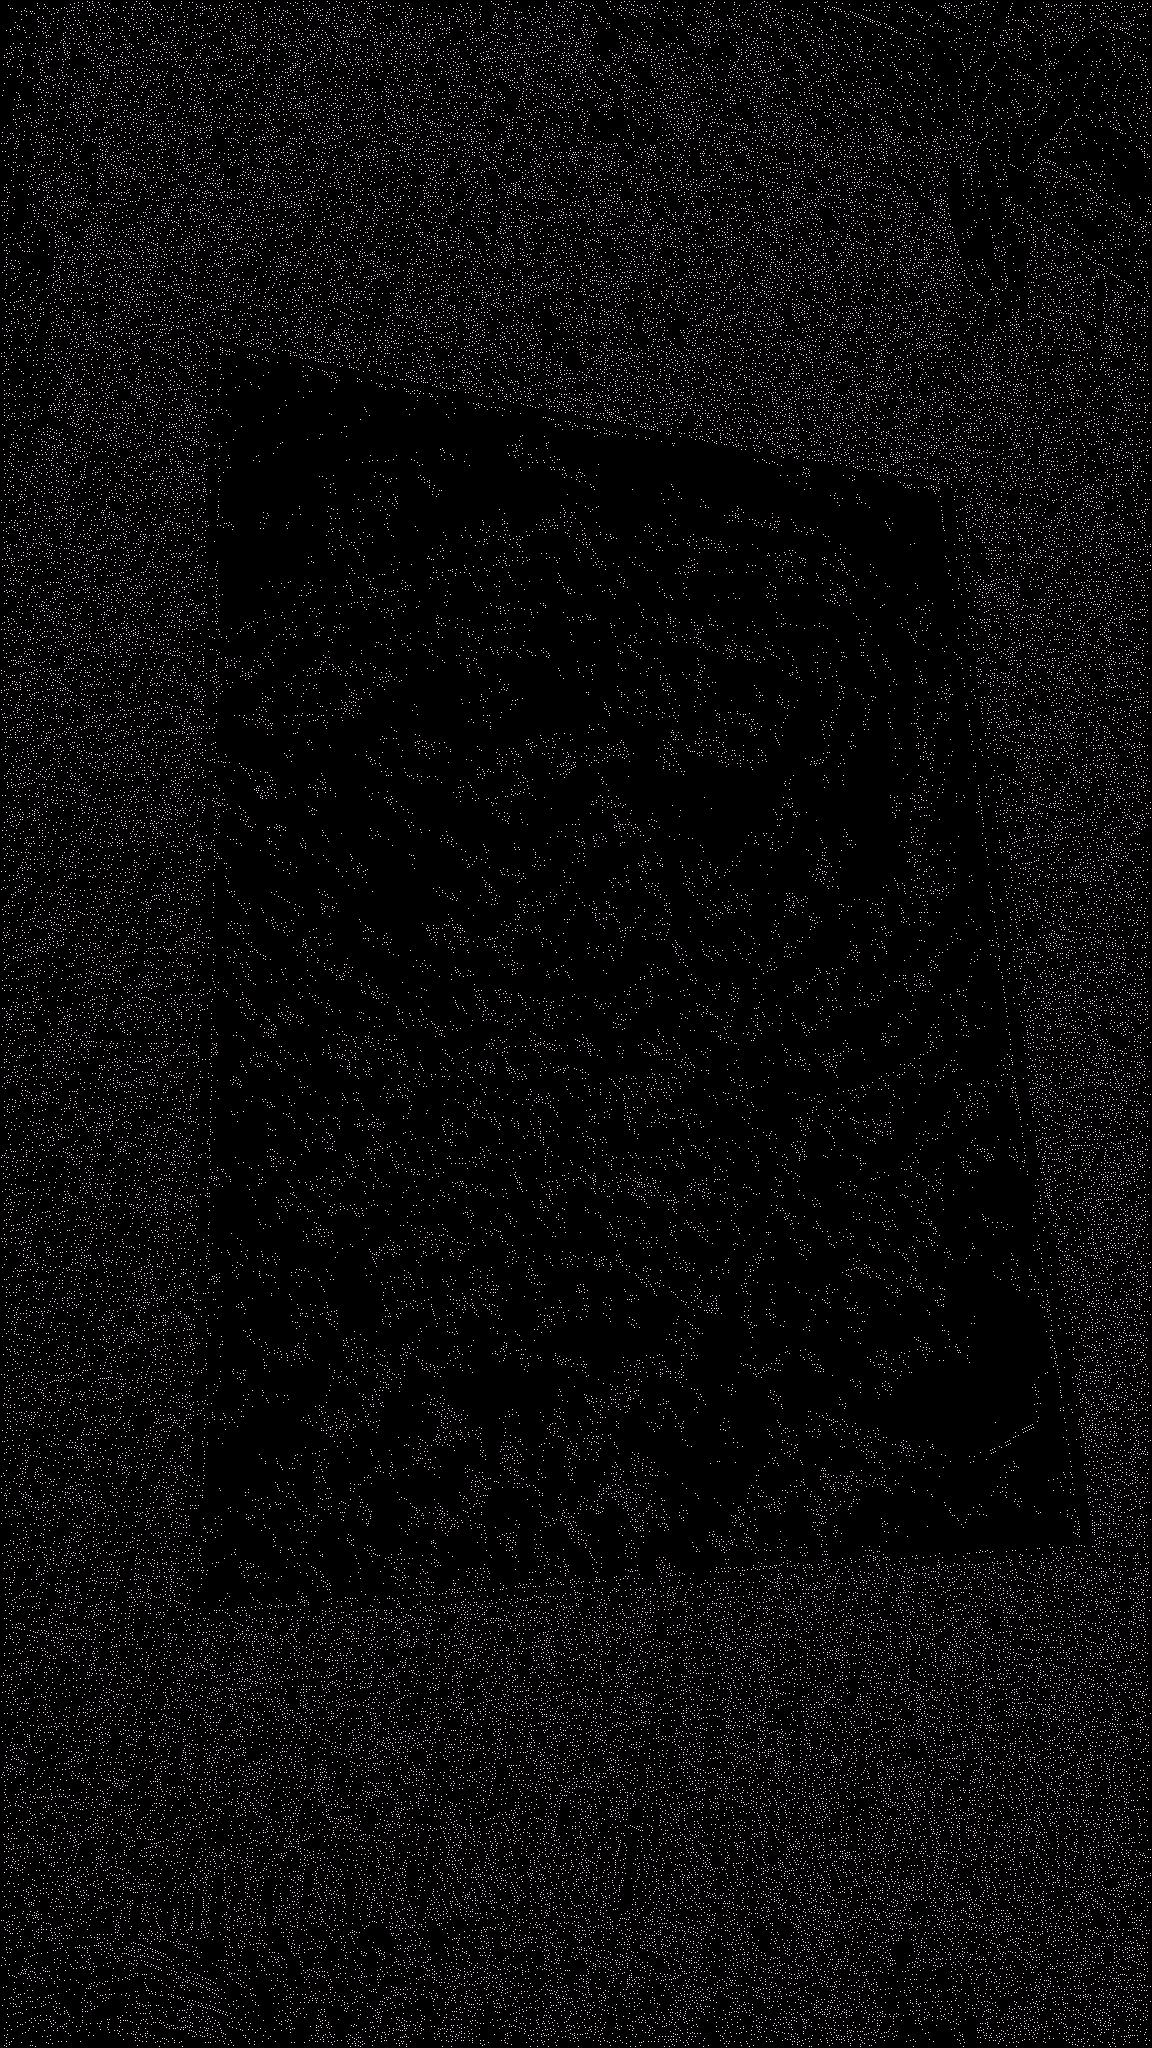
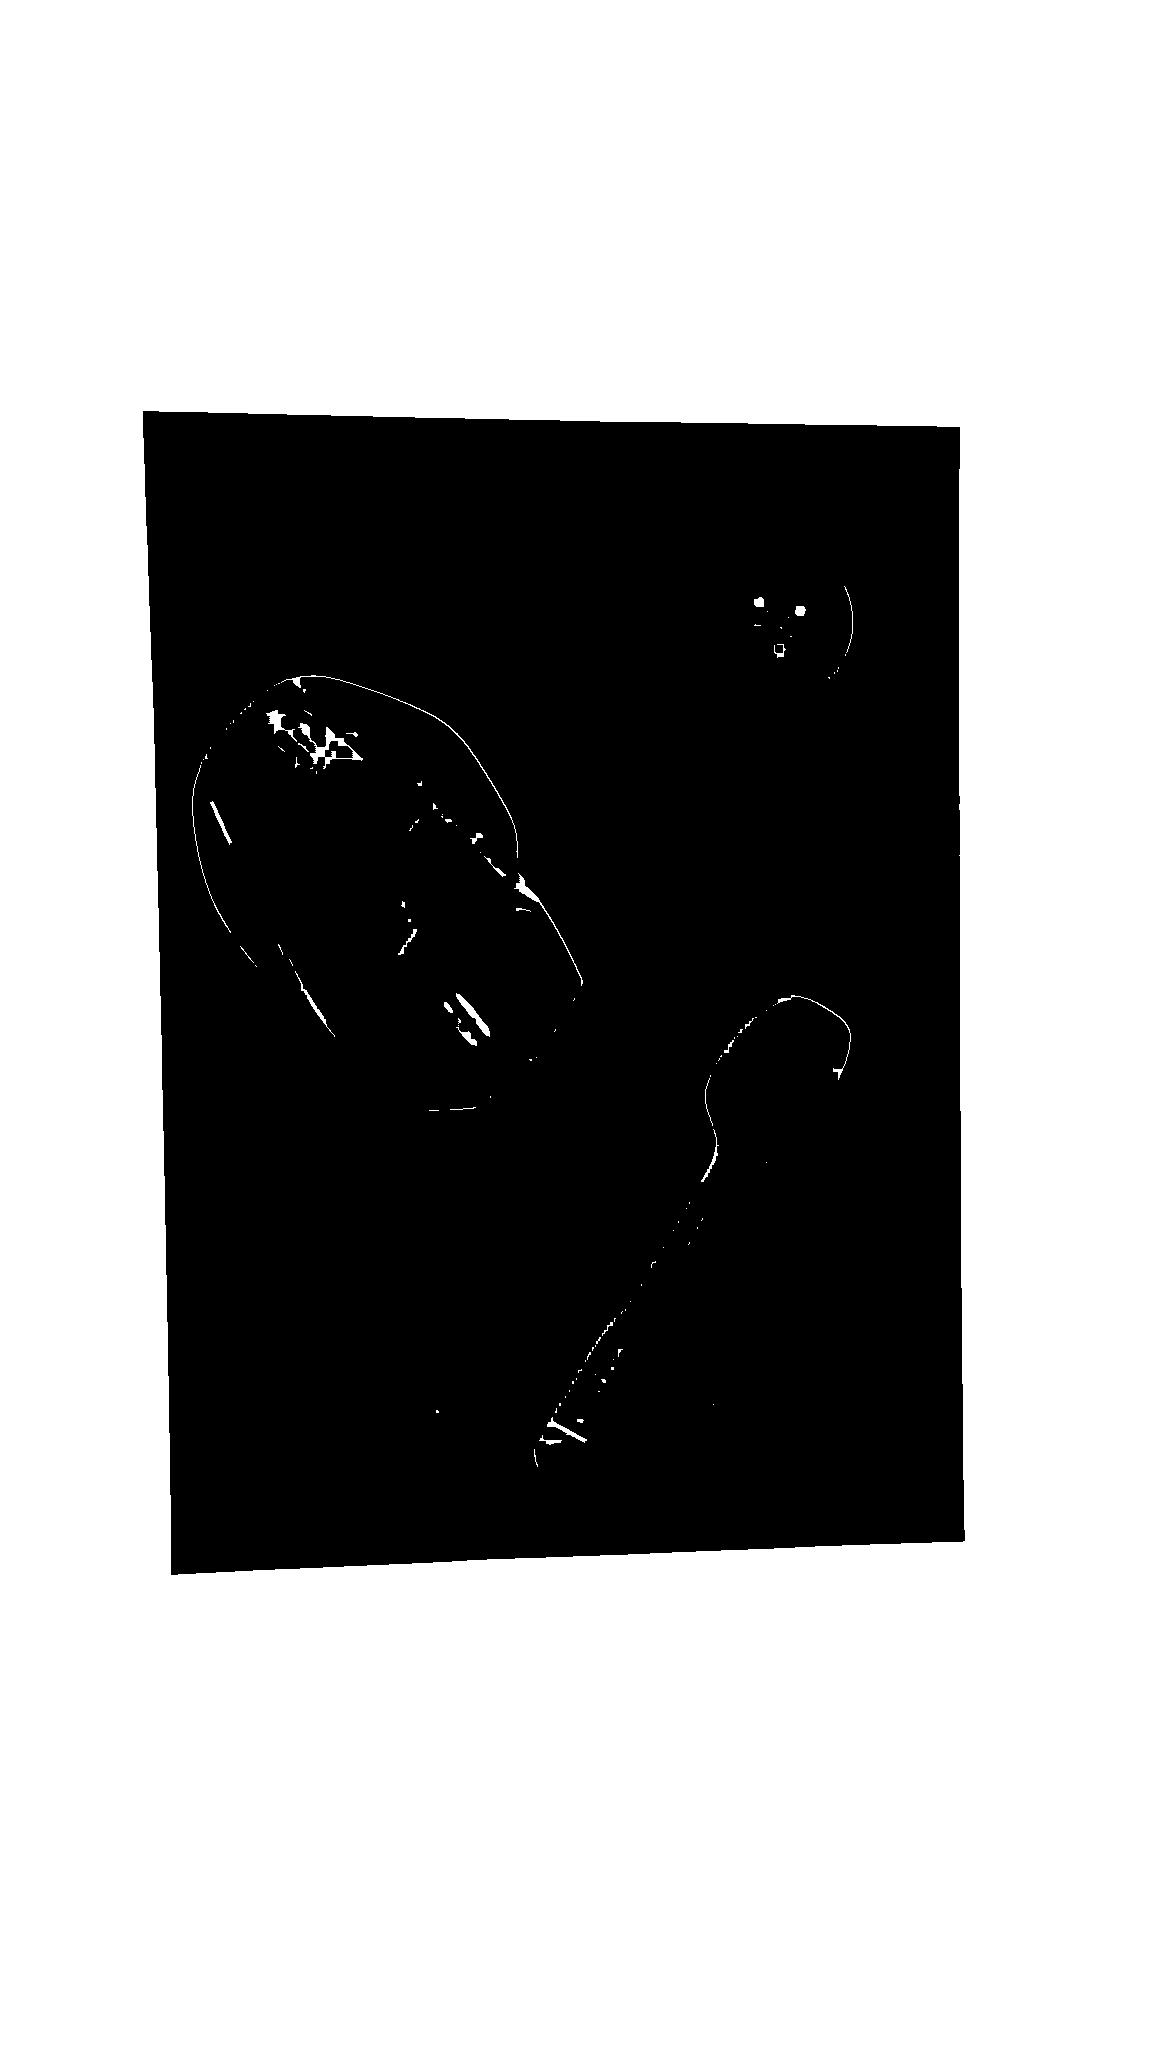
floodfill

diff --git a/src/main/java/pl/ipt/ImageProcessor/ImageProcessor.java b/src/main/java/pl/ipt/ImageProcessor/ImageProcessor.java
@@ -6,6 +6,7 @@ import java.lang.reflect.Array;
 import java.util.Arrays;
 import java.util.List;
 import java.util.Optional;
+import java.util.Stack;
 
 public class ImageProcessor {
 
@@ -110,6 +111,41 @@ public class ImageProcessor {
         result.setRGB(0, 0, width, height, resultPixels, 0, width);
         return result;
 
+    }
+
+    public static BufferedImage floodfill(BufferedImage image){
+        int width = image.getWidth();
+        int height = image.getHeight();
+        int[] imagePixels = getPixels(image);
+        BufferedImage result = new BufferedImage(width, height, BufferedImage.TYPE_BYTE_GRAY);
+
+
+        int white = new Color(255,255,255).getRGB();
+        int grey = new Color(127,127,127).getRGB();
+        Stack<Point> flooded = new Stack<Point>();
+
+        flooded.push(new Point(0,0));
+        flooded.push(new Point(width,0));
+        flooded.push(new Point(0,height));
+        flooded.push(new Point(width,height));
+
+        while(!flooded.isEmpty()){
+            Point p = flooded.pop();
+            int i = p.x + p.y * width;
+            try {
+                if(imagePixels[i]<grey){
+                    imagePixels[i]=white;
+                    if (p.y>0) flooded.push(new Point(p.x,p.y-1));
+                    if (p.x>0) flooded.push(new Point(p.x-1,p.y));
+                    if (p.x<width) flooded.push(new Point(p.x+1,p.y));
+                    if (p.y<height) flooded.push(new Point(p.x,p.y+1));
+                }
+            }catch (Exception ignored){}
+
+        }
+
+        result.setRGB(0, 0, width, height, imagePixels, 0, width);
+        return result;
     }
 
 

diff --git a/src/main/java/pl/ipt/iptApp.java b/src/main/java/pl/ipt/iptApp.java
@@ -1,5 +1,6 @@
 package pl.ipt;
 
+import org.opencv.core.Mat;
 import pl.ipt.ImageProcessor.ImageProcessor;
 import pl.ipt.Painter.Painter;
 
@@ -28,20 +29,33 @@ public class iptApp {
             painter.applyNonMaxSuppression();
             painter.applyDoubleThreshold();
 
+//            ImageIO.write(painter.getImage(),"jpg",fileOutputStream);
+
+
 //            painter.applyHarris();
 
-//            BufferedImage eroded = ImageProcessor.erode(painter.getImage());
-//            eroded = ImageProcessor.erode(eroded);
+            BufferedImage eroded = ImageProcessor.erode(painter.getImage());
+            eroded = ImageProcessor.erode(eroded);
+
+//            ImageIO.write(eroded,"jpg",fileOutputStream);
+
 //
 //
 //            BufferedImage dilated = ImageProcessor.dilate(eroded);
 //            dilated = ImageProcessor.dilate(dilated);
 
+//            ImageIO.write(dilated,"jpg",fileOutputStream);
 
-
-
-            ImageIO.write(painter.getImage(),"jpg",fileOutputStream);
-
+            BufferedImage floodfilled = ImageProcessor.floodfill(eroded);
+//            ImageIO.write(floodfilled,"jpg",fileOutputStream);
+//
+            eroded = ImageProcessor.erode(floodfilled);
+//            ImageIO.write(eroded,"jpg",fileOutputStream);
+//
+            BufferedImage dilated = ImageProcessor.dilate(eroded);
+            dilated = ImageProcessor.dilate(dilated);
+            dilated = ImageProcessor.dilate(dilated);
+            ImageIO.write(dilated,"jpg",fileOutputStream);
 
             fileInputStream.close();
             fileOutputStream.close();

diff --git a/src/main/java/pl/ipt/Painter/Painter.java b/src/main/java/pl/ipt/Painter/Painter.java
@@ -67,7 +67,7 @@ public class Painter {
     }
 
     public void applyGaussian() {
-        applyGaussian(5, 2.5);
+        applyGaussian(3, 1.3);
     }
 
     public void applyGaussian(Integer kernelSize, Double sd) {
@@ -265,8 +265,11 @@ public class Painter {
         setImage(extended.getSubimage(1, 1, width, height));
     }
 
+
+
+
     public void applyHarris() {
-        applyHarris(0, 1.5);
+        applyHarris(7, 2.5);
     }
 
     public void applyHarris(int kSize, double sd) {
